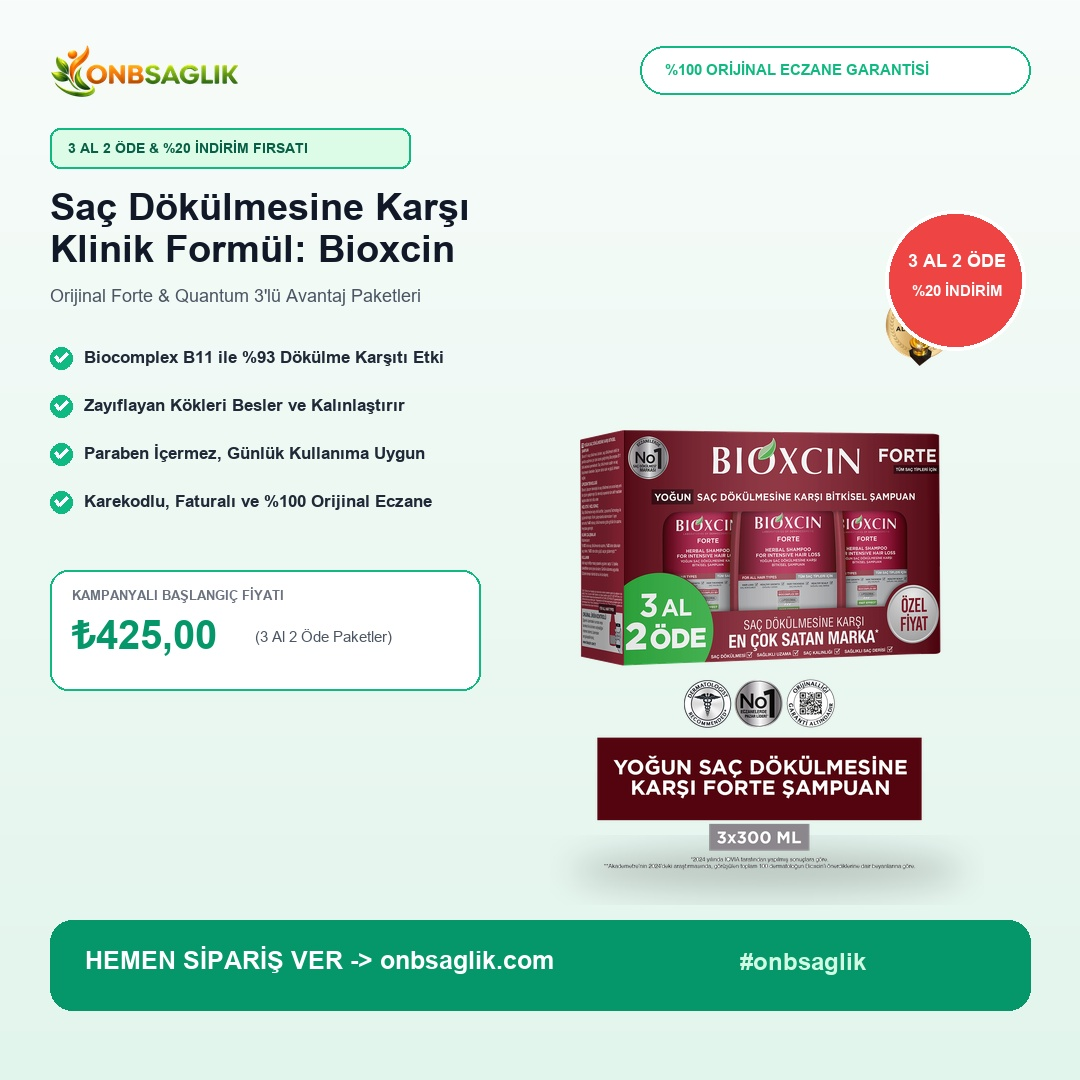
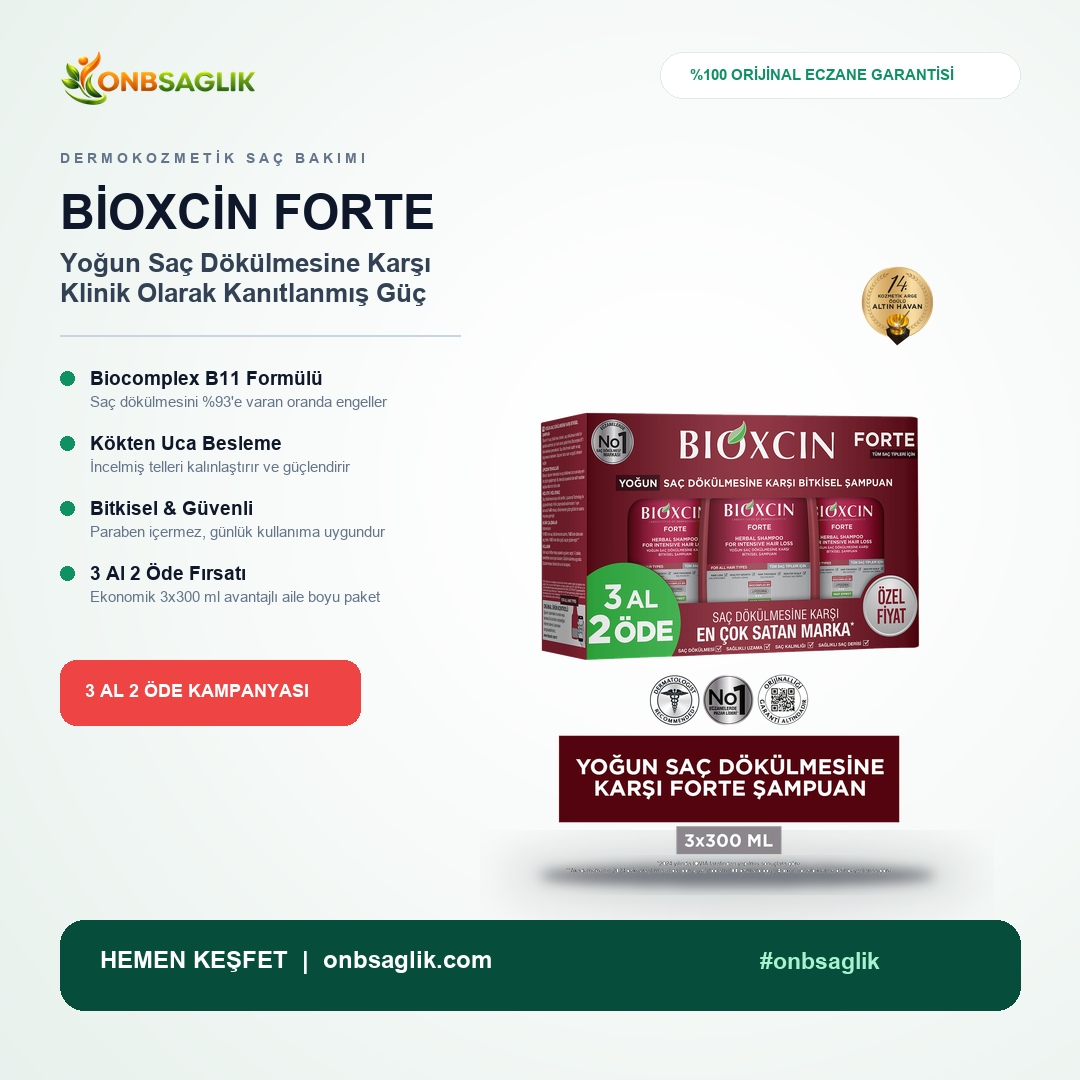
feat: luxury agency ad visuals without price tags and with exact site products

diff --git a/onbsaglik-web/create_luxury_agency_ads.py b/onbsaglik-web/create_luxury_agency_ads.py
@@ -1,0 +1,295 @@
+#!/usr/bin/env python3
+# -*- coding: utf-8 -*-
+"""
+Gerçek ürün fotoğraflarıyla ajans kalitesinde, lüks 1080x1080 sosyal medya reklam kreatifleri üretir.
+Fiyat içermez, modern tipografi, stüdyo ışığı ve 3D podyum gölgelendirmesi içerir.
+"""
+
+import os
+from PIL import Image, ImageDraw, ImageFont, ImageFilter
+import numpy as np
+from scipy import ndimage
+
+PUBLIC_DIR = 'public'
+ADS_DIR = os.path.join(PUBLIC_DIR, 'ads')
+REAL_PRODS_DIR = os.path.join(PUBLIC_DIR, 'real_products')
+LOGO_PATH = os.path.join(PUBLIC_DIR, 'logo.png')
+
+os.makedirs(ADS_DIR, exist_ok=True)
+
+FONT_REGULAR = 'C:/Windows/Fonts/arial.ttf'
+FONT_BOLD = 'C:/Windows/Fonts/arialbd.ttf'
+
+def get_font(size, bold=False):
+    path = FONT_BOLD if bold else FONT_REGULAR
+    return ImageFont.truetype(path, size)
+
+def remove_outer_bg_smooth(img_path):
+    """Kenarlardaki beyaz arka planı ayıklar ve yumuşak (antialiased) kenar üretir."""
+    img = Image.open(img_path).convert('RGB')
+    arr = np.array(img)
+    is_white = np.all(arr > 244, axis=-1)
+    labeled, _ = ndimage.label(is_white)
+    
+    border_labels = set()
+    border_labels.update(np.unique(labeled[0, :]))
+    border_labels.update(np.unique(labeled[-1, :]))
+    border_labels.update(np.unique(labeled[:, 0]))
+    border_labels.update(np.unique(labeled[:, -1]))
+    border_labels.discard(0)
+    
+    outer_bg = np.isin(labeled, list(border_labels))
+    alpha = np.where(outer_bg, 0, 255).astype(np.uint8)
+    
+    alpha_img = Image.fromarray(alpha).filter(ImageFilter.GaussianBlur(0.8))
+    
+    rgba = img.convert('RGBA')
+    rgba.putalpha(alpha_img)
+    bbox = rgba.getbbox()
+    return rgba.crop(bbox)
+
+def create_studio_background(theme='emerald'):
+    """Lüks stüdyo aydınlatması: Yumuşak radyal ışık huzmesi ve zarif gradient"""
+    w, h = 1080, 1080
+    
+    # Renk paletleri
+    if theme == 'emerald': # Bioxcin için lüks fildişi / açık adaçayı
+        center_color = np.array([255, 255, 255], dtype=float)
+        edge_color = np.array([230, 240, 235], dtype=float)
+        accent = (16, 145, 100)
+        btn_bg = (6, 78, 59)
+    elif theme == 'blue': # Alopexy için medikal saf beyaz / buz mavisi
+        center_color = np.array([255, 255, 255], dtype=float)
+        edge_color = np.array([232, 240, 250], dtype=float)
+        accent = (29, 78, 216)
+        btn_bg = (30, 58, 138)
+    else: # Minoxil için lüks gümüş / safir mavi
+        center_color = np.array([255, 255, 255], dtype=float)
+        edge_color = np.array([234, 238, 250], dtype=float)
+        accent = (67, 56, 202)
+        btn_bg = (49, 46, 129)
+        
+    # Radyal ışık matrisi (Işık merkezi ürünün biraz arkasında: x=700, y=500)
+    y, x = np.ogrid[:h, :w]
+    light_x, light_y = 680, 480
+    dist = np.sqrt((x - light_x)**2 + (y - light_y)**2)
+    max_dist = np.sqrt(w**2 + h**2) * 0.75
+    norm_dist = np.clip(dist / max_dist, 0, 1)
+    
+    # Yumuşak eğri (cosine falloff)
+    factor = 0.5 * (1 + np.cos(norm_dist * np.pi)) # 1 at center, 0 at edge
+    factor = factor[:, :, np.newaxis]
+    
+    bg_arr = (center_color * factor + edge_color * (1 - factor)).astype(np.uint8)
+    canvas = Image.fromarray(bg_arr, mode='RGB')
+    
+    return canvas, accent, btn_bg
+
+def add_studio_shadow(canvas, x, y, width, height):
+    """Gerçekçi çift katmanlı temas ve ortam gölgesi (Ambient Occlusion)"""
+    # 1. Katman: Doğrudan taban temas gölgesi (Koyu & Keskin)
+    contact = Image.new('RGBA', (width + 40, 40), (0, 0, 0, 0))
+    cdraw = ImageDraw.Draw(contact)
+    cdraw.ellipse([20, 10, width + 20, 30], fill=(15, 23, 42, 130))
+    contact = contact.filter(ImageFilter.GaussianBlur(6))
+    canvas.paste(contact, (x - 20, y + height - 20), contact)
+    
+    # 2. Katman: Geniş dağınık stüdyo gölgesi (Yumuşak & Açık)
+    diffuse = Image.new('RGBA', (width + 120, 90), (0, 0, 0, 0))
+    ddraw = ImageDraw.Draw(diffuse)
+    ddraw.ellipse([20, 20, width + 100, 70], fill=(15, 23, 42, 50))
+    diffuse = diffuse.filter(ImageFilter.GaussianBlur(22))
+    canvas.paste(diffuse, (x - 60, y + height - 45), diffuse)
+
+def add_header(canvas, accent):
+    draw = ImageDraw.Draw(canvas)
+    
+    # Logo
+    if os.path.exists(LOGO_PATH):
+        try:
+            logo = Image.open(LOGO_PATH).convert('RGBA')
+            aspect = logo.width / logo.height
+            new_h = 56
+            new_w = int(new_h * aspect)
+            logo_resized = logo.resize((new_w, new_h), Image.Resampling.LANCZOS)
+            canvas.paste(logo_resized, (60, 50), logo_resized)
+        except Exception as e:
+            print("Logo hatasi:", e)
+            
+    # Sağ üst ince şık garanti hapı
+    draw.rounded_rectangle([660, 52, 1020, 98], radius=23, fill=(255, 255, 255), outline=(226, 232, 240), width=1)
+    draw.text((690, 66), "%100 ORİJİNAL ECZANE GARANTİSİ", font=get_font(15, bold=True), fill=accent)
+
+
+# =======================================================
+# 1. POST: BİOXCİN FORTE (GERÇEK 3'LÜ AVANTAJ KUTUSU)
+# =======================================================
+def render_bioxcin_ad():
+    canvas, accent, btn_bg = create_studio_background(theme='emerald')
+    add_header(canvas, accent)
+    draw = ImageDraw.Draw(canvas)
+    
+    # Kategori Üst Başlığı (Tracked)
+    draw.text((60, 150), "D E R M O K O Z M E T İ K   S A Ç   B A K I M I", font=get_font(14, bold=True), fill=(100, 116, 139))
+    
+    # Ana Başlık
+    draw.text((60, 185), "BİOXCİN FORTE", font=get_font(48, bold=True), fill=(15, 23, 42))
+    draw.text((60, 248), "Yoğun Saç Dökülmesine Karşı\nKlinik Olarak Kanıtlanmış Güç", font=get_font(26, bold=True), fill=(51, 65, 85), spacing=6)
+
+    # İnce ayırıcı çizgi
+    draw.line([(60, 335), (460, 335)], fill=(203, 213, 225), width=2)
+
+    # 4 Güçlü Avantaj Maddesi (Sade ve zarif)
+    bullets = [
+        ("Biocomplex B11 Formülü", "Saç dökülmesini %93'e varan oranda engeller"),
+        ("Kökten Uca Besleme", "İncelmiş telleri kalınlaştırır ve güçlendirir"),
+        ("Bitkisel & Güvenli", "Paraben içermez, günlük kullanıma uygundur"),
+        ("3 Al 2 Öde Fırsatı", "Ekonomik 3x300 ml avantajlı aile boyu paket")
+    ]
+    
+    by = 365
+    for title, desc in bullets:
+        # Minimalist yeşil nokta
+        draw.ellipse([60, by + 6, 74, by + 20], fill=accent)
+        draw.text((90, by + 2), title, font=get_font(19, bold=True), fill=(15, 23, 42))
+        draw.text((90, by + 28), desc, font=get_font(15, bold=False), fill=(100, 116, 139))
+        by += 65
+
+    # Alt Eylem Çubuğu (Lüks Koyu Yeşil Hap)
+    draw.rounded_rectangle([60, 920, 1020, 1010], radius=24, fill=btn_bg)
+    draw.text((100, 946), "HEMEN KEŞFET  |  onbsaglik.com", font=get_font(24, bold=True), fill=(255, 255, 255))
+    draw.text((760, 948), "#onbsaglik", font=get_font(23, bold=True), fill=(167, 243, 208))
+
+    # Gerçek Ürün (Bioxcin Forte 3'lü Paket)
+    prod = remove_outer_bg_smooth(os.path.join(REAL_PRODS_DIR, 'bioxcin-forte-3lu.jpg'))
+    target_h = 610
+    scale = target_h / prod.height
+    w = int(prod.width * scale)
+    p = prod.resize((w, target_h), Image.Resampling.LANCZOS)
+    
+    # Sağ tarafa kusursuz yerleşim
+    prod_x = 540
+    prod_y = 265
+    add_studio_shadow(canvas, prod_x, prod_y, w, target_h)
+    canvas.paste(p, (prod_x, prod_y), p)
+    
+    # Sol alt "3 Al 2 Öde" Vurgu Rozeti
+    draw.rounded_rectangle([60, 660, 360, 725], radius=16, fill=(239, 68, 68))
+    draw.text((85, 680), "3 AL 2 ÖDE KAMPANYASI", font=get_font(18, bold=True), fill=(255, 255, 255))
+
+    out_file = os.path.join(ADS_DIR, 'post_bioxcin_real.jpg')
+    canvas.save(out_file, 'JPEG', quality=96)
+    print("Oluşturuldu:", out_file)
+
+
+# =======================================================
+# 2. POST: PIERRE FABRE ALOPEXY %5 (GERÇEK KUTU & ŞİŞE)
+# =======================================================
+def render_alopexy_ad():
+    canvas, accent, btn_bg = create_studio_background(theme='blue')
+    add_header(canvas, accent)
+    draw = ImageDraw.Draw(canvas)
+    
+    draw.text((60, 150), "T I B B İ   S A Ç   T E D A V İ S İ", font=get_font(14, bold=True), fill=(100, 116, 139))
+    draw.text((60, 185), "ALOPEXY'T %5", font=get_font(48, bold=True), fill=(15, 23, 42))
+    draw.text((60, 248), "Pierre Fabre Dermatologie\n%5 Minoksidil Saç & Deri Spreyi (60 ml)", font=get_font(24, bold=True), fill=(51, 65, 85), spacing=6)
+
+    draw.line([(60, 335), (460, 335)], fill=(203, 213, 225), width=2)
+
+    bullets = [
+        ("Dermatolojik Altın Standart", "Androjenik Alopesi (Erkek tipi dökülme) tedavisinde kanıtlanmış"),
+        ("Saç Köklerini Canlandırır", "Mikrodolaşımı hızlandırarak yeni saç çıkışını tetikler"),
+        ("Hedefli Sprey Başlık", "Seyrelen bölgelere doğrudan ve kolay uygulama"),
+        ("Resmi Ecza Deposu Garantisi", "Fransa menşeili, Sağlık Bakanlığı onaylı orijinal ürün")
+    ]
+    
+    by = 365
+    for title, desc in bullets:
+        draw.ellipse([60, by + 6, 74, by + 20], fill=accent)
+        draw.text((90, by + 2), title, font=get_font(19, bold=True), fill=(15, 23, 42))
+        draw.text((90, by + 28), desc, font=get_font(15, bold=False), fill=(100, 116, 139))
+        by += 65
+
+    draw.rounded_rectangle([60, 920, 1020, 1010], radius=24, fill=btn_bg)
+    draw.text((100, 946), "HEMEN İNCELE  |  onbsaglik.com", font=get_font(24, bold=True), fill=(255, 255, 255))
+    draw.text((760, 948), "#onbsaglik", font=get_font(23, bold=True), fill=(191, 219, 254))
+
+    # Gerçek Ürün (Pierre Fabre Alopexy 5% Kutu & Şişe)
+    prod = remove_outer_bg_smooth(os.path.join(REAL_PRODS_DIR, 'alopexy-5-sprey.jpg'))
+    target_h = 600
+    scale = target_h / prod.height
+    w = int(prod.width * scale)
+    p = prod.resize((w, target_h), Image.Resampling.LANCZOS)
+    
+    prod_x = 510
+    prod_y = 265
+    add_studio_shadow(canvas, prod_x, prod_y, w, target_h)
+    canvas.paste(p, (prod_x, prod_y), p)
+    
+    # Fransız Dermatoloji Rozeti
+    draw.rounded_rectangle([60, 660, 420, 725], radius=16, fill=(37, 99, 235))
+    draw.text((85, 680), "FRANSA DERMATOLOJİ MENŞEİLİ", font=get_font(17, bold=True), fill=(255, 255, 255))
+
+    out_file = os.path.join(ADS_DIR, 'post_alopexy_real.jpg')
+    canvas.save(out_file, 'JPEG', quality=96)
+    print("Oluşturuldu:", out_file)
+
+
+# =======================================================
+# 3. POST: MİNOXİL FORTE %5 (GERÇEK TÜRK ECZANE KUTUSU)
+# =======================================================
+def render_minoxil_ad():
+    canvas, accent, btn_bg = create_studio_background(theme='indigo')
+    add_header(canvas, accent)
+    draw = ImageDraw.Draw(canvas)
+    
+    draw.text((60, 150), "K L İ N İ K   S A Ç   Ç I K A R I C I", font=get_font(14, bold=True), fill=(100, 116, 139))
+    draw.text((60, 185), "MİNOXİL FORTE %5", font=get_font(48, bold=True), fill=(15, 23, 42))
+    draw.text((60, 248), "Dökülen Saçlarınızı Geri Kazanın!\nSağlık Bakanlığı Onaylı Deri Spreyi (60 ml)", font=get_font(24, bold=True), fill=(51, 65, 85), spacing=6)
+
+    draw.line([(60, 335), (460, 335)], fill=(203, 213, 225), width=2)
+
+    bullets = [
+        ("Saç Foliküllerini Canlandırır", "Zayıflamış kökleri güçlendirerek saç dökülmesini durdurur"),
+        ("Yeni Saç Çıkışını Tetikler", "Tüy görünümündeki telleri kalın saçlara dönüştürür"),
+        ("Türkiye'nin En Çok Tercih Edileni", "Eczacıların ve uzman hekimlerin güvenle önerdiği formül"),
+        ("Resmi Karekodlu Eczane Güvencesi", "Piyasadaki taklitlerine karşı %100 orijinal teslimat")
+    ]
+    
+    by = 365
+    for title, desc in bullets:
+        draw.ellipse([60, by + 6, 74, by + 20], fill=accent)
+        draw.text((90, by + 2), title, font=get_font(19, bold=True), fill=(15, 23, 42))
+        draw.text((90, by + 28), desc, font=get_font(15, bold=False), fill=(100, 116, 139))
+        by += 65
+
+    draw.rounded_rectangle([60, 920, 1020, 1010], radius=24, fill=btn_bg)
+    draw.text((100, 946), "HEMEN SİPARİŞ VER  |  onbsaglik.com", font=get_font(24, bold=True), fill=(255, 255, 255))
+    draw.text((760, 948), "#onbsaglik", font=get_font(23, bold=True), fill=(199, 210, 254))
+
+    # Gerçek Ürün (Minoxil Forte 5% Mavi Kutu)
+    prod = remove_outer_bg_smooth(os.path.join(REAL_PRODS_DIR, 'minoxil-forte-60ml.jpg'))
+    target_h = 610
+    scale = target_h / prod.height
+    w = int(prod.width * scale)
+    p = prod.resize((w, target_h), Image.Resampling.LANCZOS)
+    
+    prod_x = 570
+    prod_y = 260
+    add_studio_shadow(canvas, prod_x, prod_y, w, target_h)
+    canvas.paste(p, (prod_x, prod_y), p)
+    
+    # 1 Numara Rozeti
+    draw.rounded_rectangle([60, 660, 420, 725], radius=16, fill=(67, 56, 202))
+    draw.text((85, 680), "TÜRKİYE'NİN 1 NUMARALI TERCİHİ", font=get_font(17, bold=True), fill=(255, 255, 255))
+
+    out_file = os.path.join(ADS_DIR, 'post_minoxil_real.jpg')
+    canvas.save(out_file, 'JPEG', quality=96)
+    print("Oluşturuldu:", out_file)
+
+
+if __name__ == '__main__':
+    render_bioxcin_ad()
+    render_alopexy_ad()
+    render_minoxil_ad()
+    print("Ajans kalitesinde lüks reklam postları hazırlandı!")
